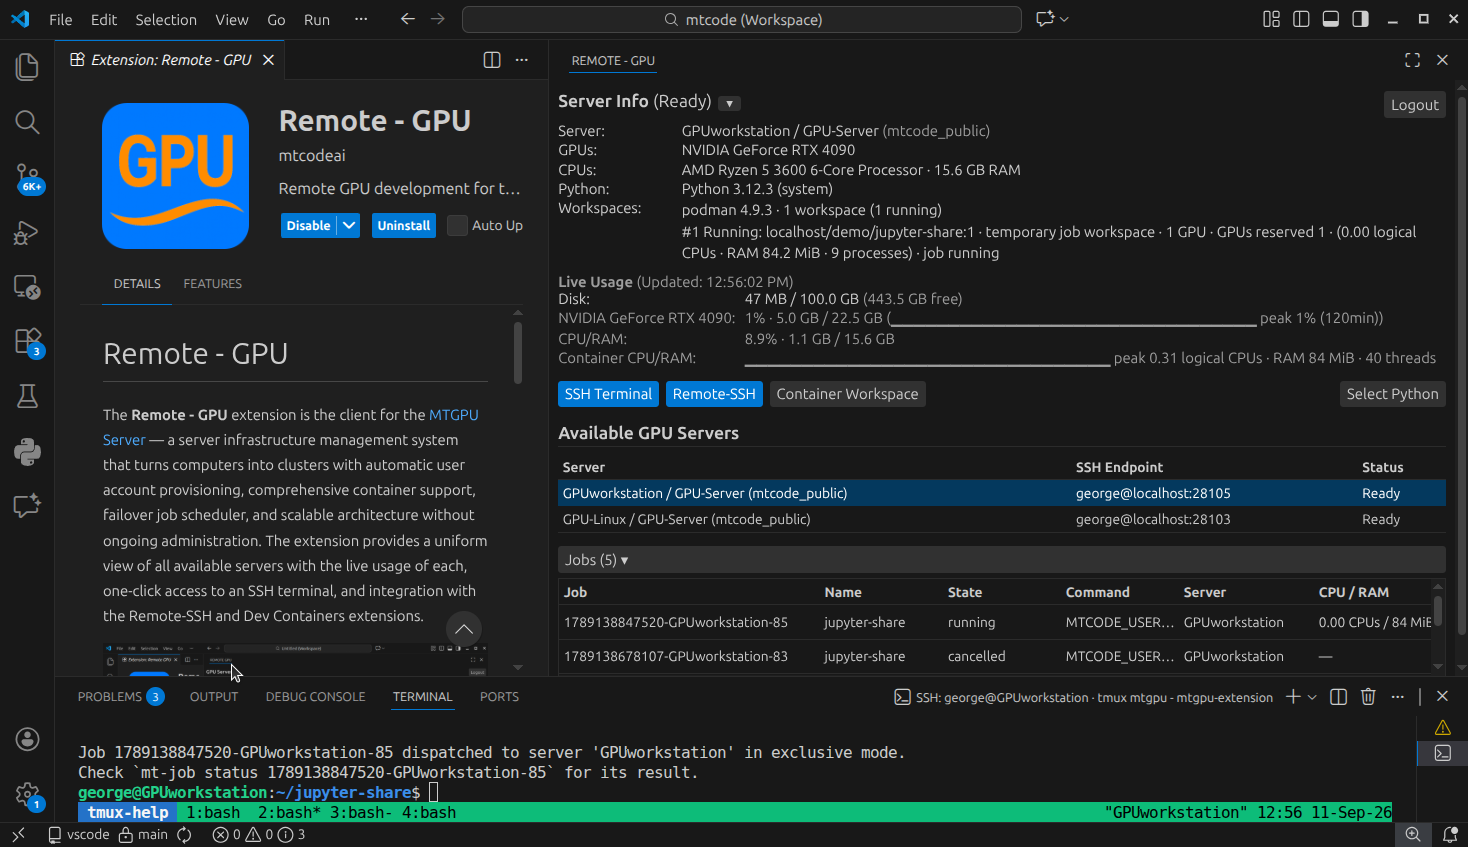
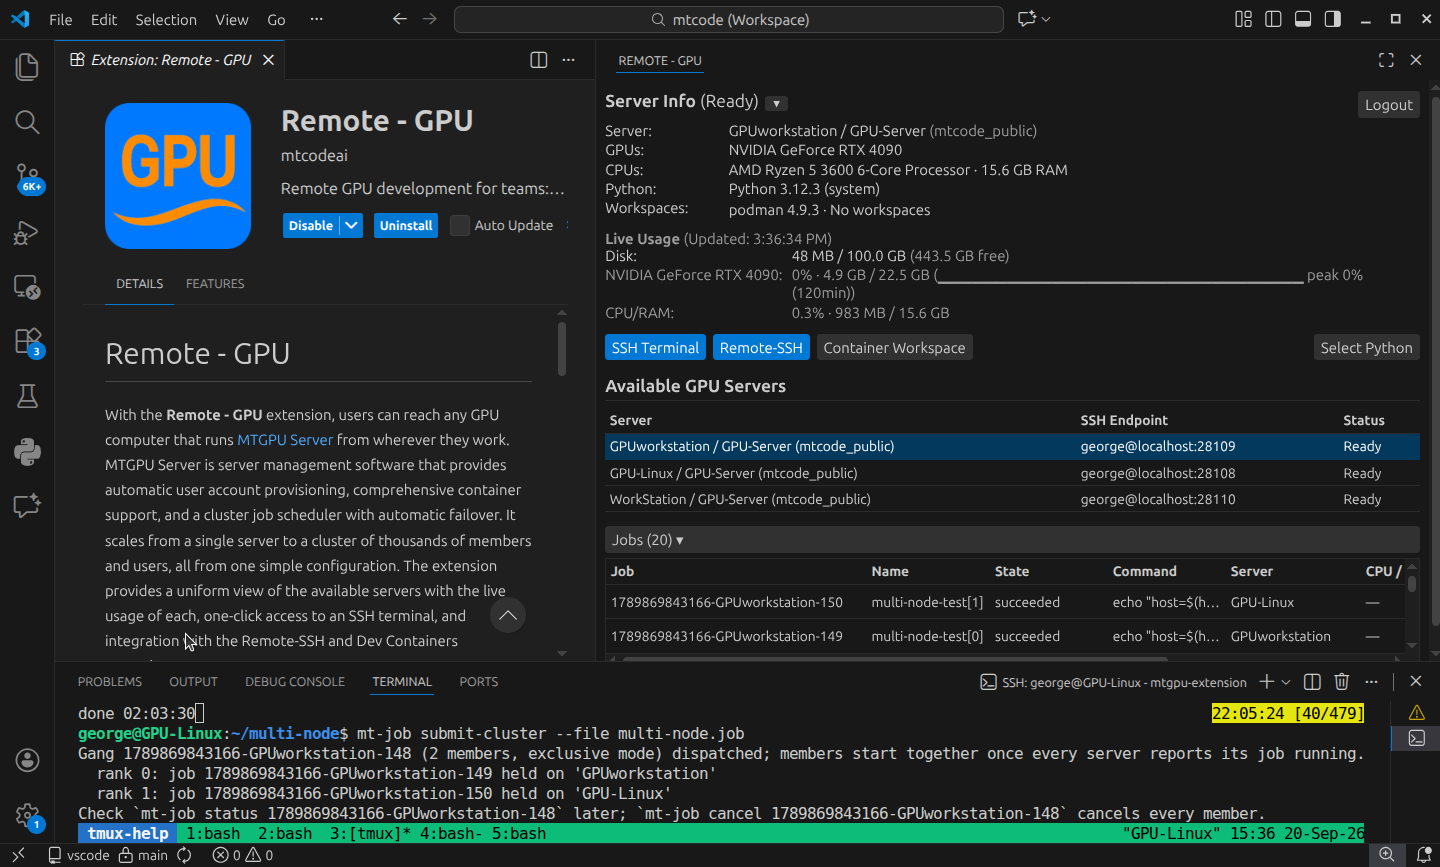
Add files via upload

diff --git a/README.md b/README.md
@@ -1,6 +1,6 @@
 # Remote - GPU
 
-With the **Remote - GPU** extension, users can reach any GPU computer that runs [MTGPU Server](https://mtcodeai.com/platform/gpu-server.html) from wherever they work. MTGPU Server is server management software that provides automatic user account provisioning, comprehensive container support, and a cluster job scheduler with automatic failover. It manages a single server or a cluster of thousands of members and users, all from one simple configuration. The extension provides a uniform view of the available servers with the live usage of each, one-click access to an SSH terminal, and integration with the Remote-SSH and Dev Containers extensions.
+With the **Remote - GPU** extension, users can reach any GPU computer that runs [MTGPU Server](https://mtcodeai.com/platform/gpu-server.html) from wherever they work. MTGPU Server is server management software that provides automatic user account provisioning, comprehensive container support, and a cluster job scheduler with automatic failover. It scales from a single server to a cluster of thousands of members and users, all from one simple configuration. The extension provides a uniform view of the available servers with the live usage of each, one-click access to an SSH terminal, and integration with the Remote-SSH and Dev Containers extensions.
 
 ![Remote - GPU panel overview](images/screenshot-gpu-extension.png)
 
